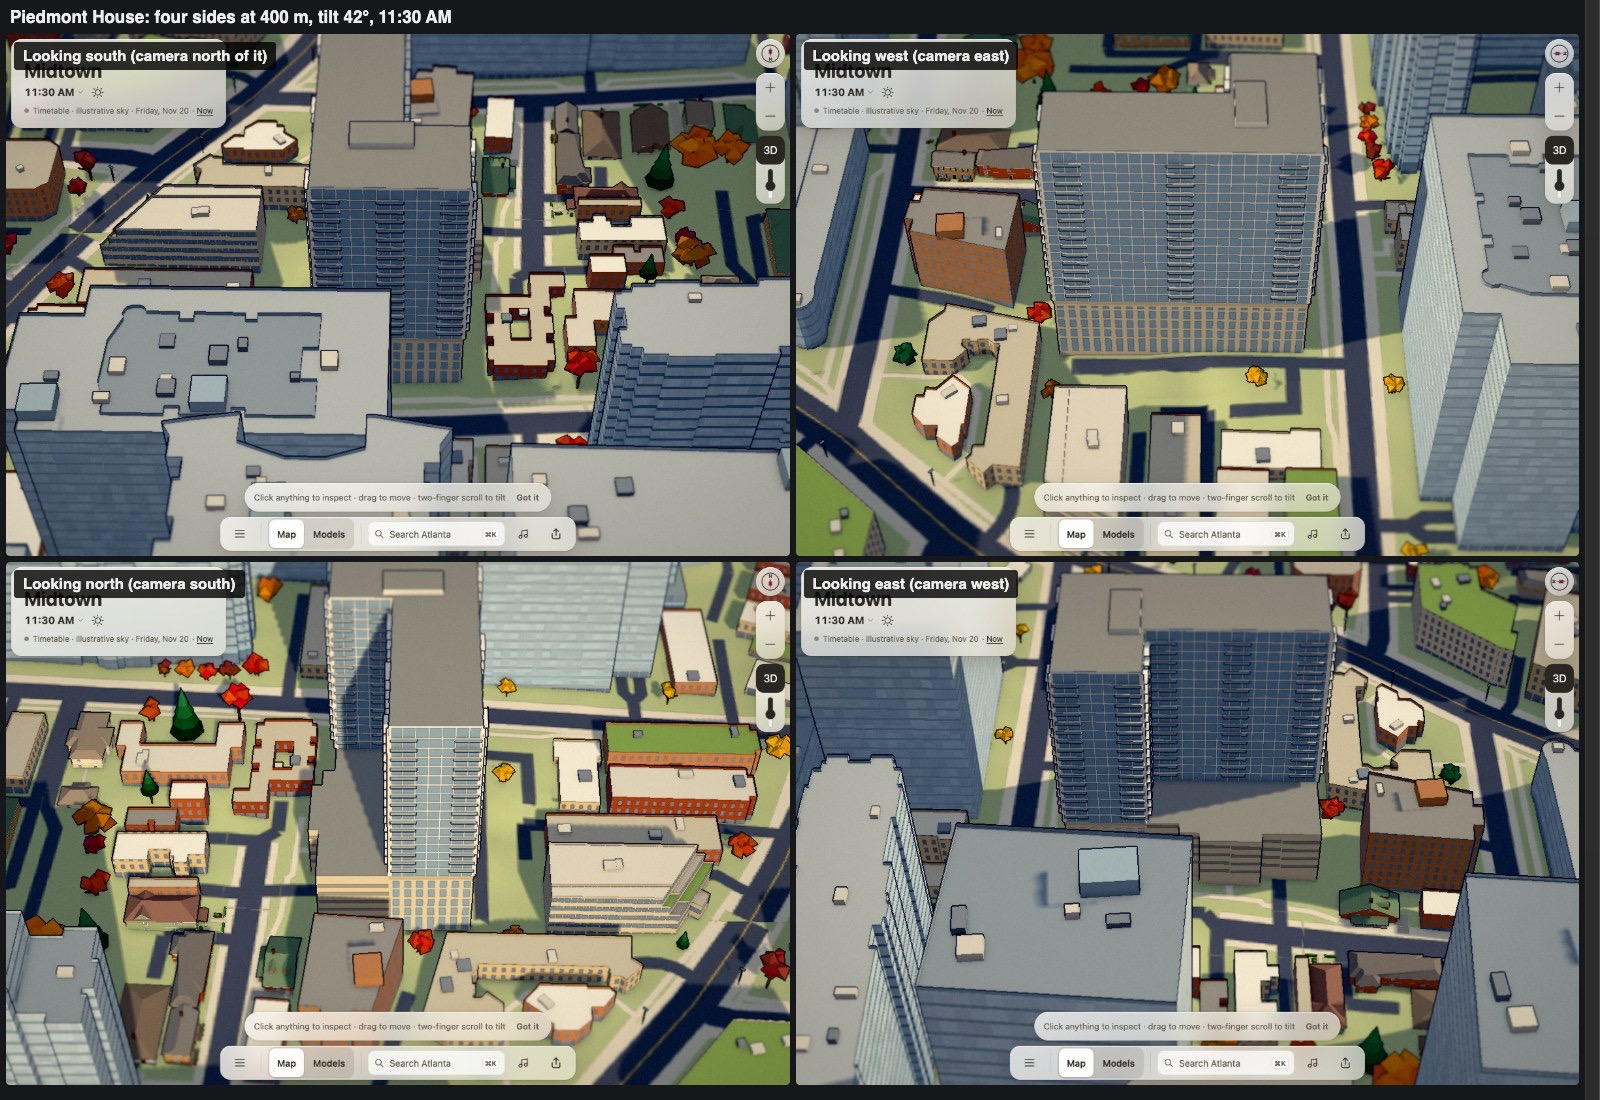
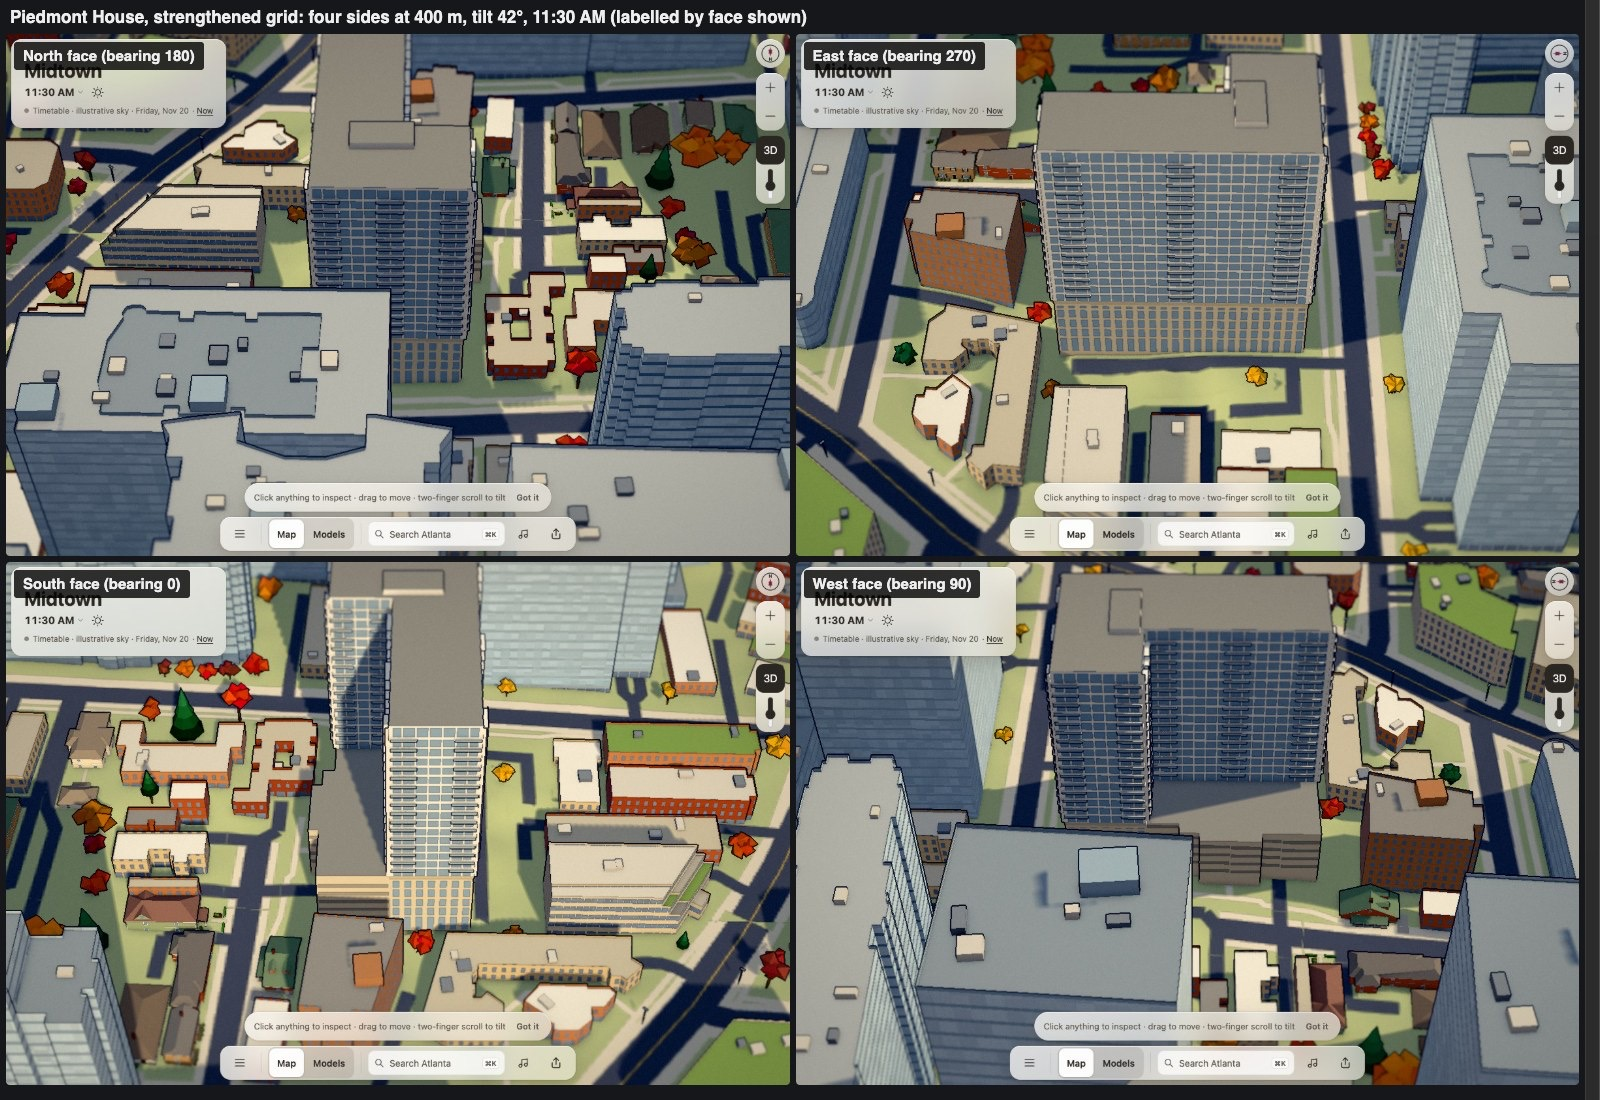
Strengthen Piedmont House's white grid
The recognition run rated #544 borderline: the grid was faint at 750 m. Both
Street View panos show bold white corner columns, mullions and slab edges, now
drawn at that weight. The glass colour is unchanged.

diff --git a/web/src/city/piedmont-house.ts b/web/src/city/piedmont-house.ts
@@ -105,12 +105,13 @@ export function createPiedmontHouse(buildings: VBuilding[], site: VBuilding, gri
     panel(f, -0.002, 1.002, baseTop - 1.2, baseTop, 0.1, creamShade);
     // Shaft: a white mullion per bay and a white slab edge per floor.
     for (let k = 0; k <= bays; k++) {
-      const w = (k === 0 || k === bays ? 0.6 : 0.12) / f.length; // the white edge columns are wider
+      // Street View (March 2025): bold white corner columns and white mullions frame the glass.
+      const w = (k === 0 || k === bays ? 0.9 : 0.22) / f.length;
       panel(f, k / bays - w, k / bays + w, baseTop, roofTop - 0.8, 0.08, white);
     }
     for (let j = 1; j < floors; j++) {
       const y = baseTop + j * pitch;
-      panel(f, 0, 1, y - 0.22, y + 0.22, 0.06, white);
+      panel(f, 0, 1, y - 0.4, y + 0.4, 0.06, white); // the white slab edge at every floor reads strongly in the photos
     }
     panel(f, -0.004, 1.004, roofTop - 0.8, roofTop, 0.1, white);
     // Balcony stacks at both ends of each face and at the middle of long faces.
@@ -137,5 +138,9 @@ export function createPiedmontHouse(buildings: VBuilding[], site: VBuilding, gri
     s.prism(penthouse, roofTop, penthouseTop, white, roof);
   }
 
-  return s.finish('#ffdcae', 0.62);
+  const model = s.finish('#ffdcae', 0.62);
+  // This row's outline is clipped at the board seam (z = -3300); the tower's south 5 m and its
+  // balconies stand on the midtown-central clip's outline, so the footprint audit allows 7 m here.
+  model.group.userData.footprint = { maxProjection: 7 };
+  return model;
 }

diff --git a/docs/log/ui/piedmont-house/README.md b/docs/log/ui/piedmont-house/README.md
@@ -50,3 +50,13 @@ The base colour is `#9aaebc` (S 18%, V 74%). At 11:30 on the high tier, the sunl
 | Low tier | `1032,-3332,270,60,750` with `&q=low` | 11:30 AM / 11:30 PM | [Day](low-day.jpg) · [Night](low-night.jpg) |
 
 Four sides at 400 m, tilt 42°, 11:30 AM: [contact sheet](four-sides.jpg). Each camera targets `1032,-3332` at a 400 m distance, using bearings 180 (camera north), 270 (east), 0 (south) and 90 (west) via `__setView(bearing, 42, 400, 1032, -3332, 1)`. None of the four sides shows a floating, missing or z-fighting part.
+
+## Strengthened grid (2026-11-24)
+
+The recognition run rated the first version borderline: from 750 m the white grid was faint, and low-rises hid the cream base. Both Street View panos above show bold white corner columns, white mullions and a white slab edge at every floor around the blue glass. The grid is now drawn at that weight: corner columns 1.8 m wide, mullions 0.44 m, slab edges 0.8 m. The glass colour is unchanged; I had no photo sample that would justify retinting it.
+
+| View | Camera | Clock | Image |
+|---|---|---|---|
+| North-west at 500 m, showing the cream base | `1032,-3332,300,52,500` with `&dev`, then `__setView(300, 52, 500, 1040, -3320, 1.2)` | 11:30 AM | [Before and after](base-before-after.jpg) |
+| #544's money shot | `1032,-3332,270,60,750` | 11:30 AM / 11:30 PM | [Day](strengthened-day.jpg) · [Night](strengthened-night.jpg) |
+| Four sides at 400 m, labelled by face shown | `__setView(bearing, 42, 400, 1032, -3332, 1)` with bearings 0, 90, 180 and 270 | 11:30 AM | [Sheet](four-sides.jpg) |
